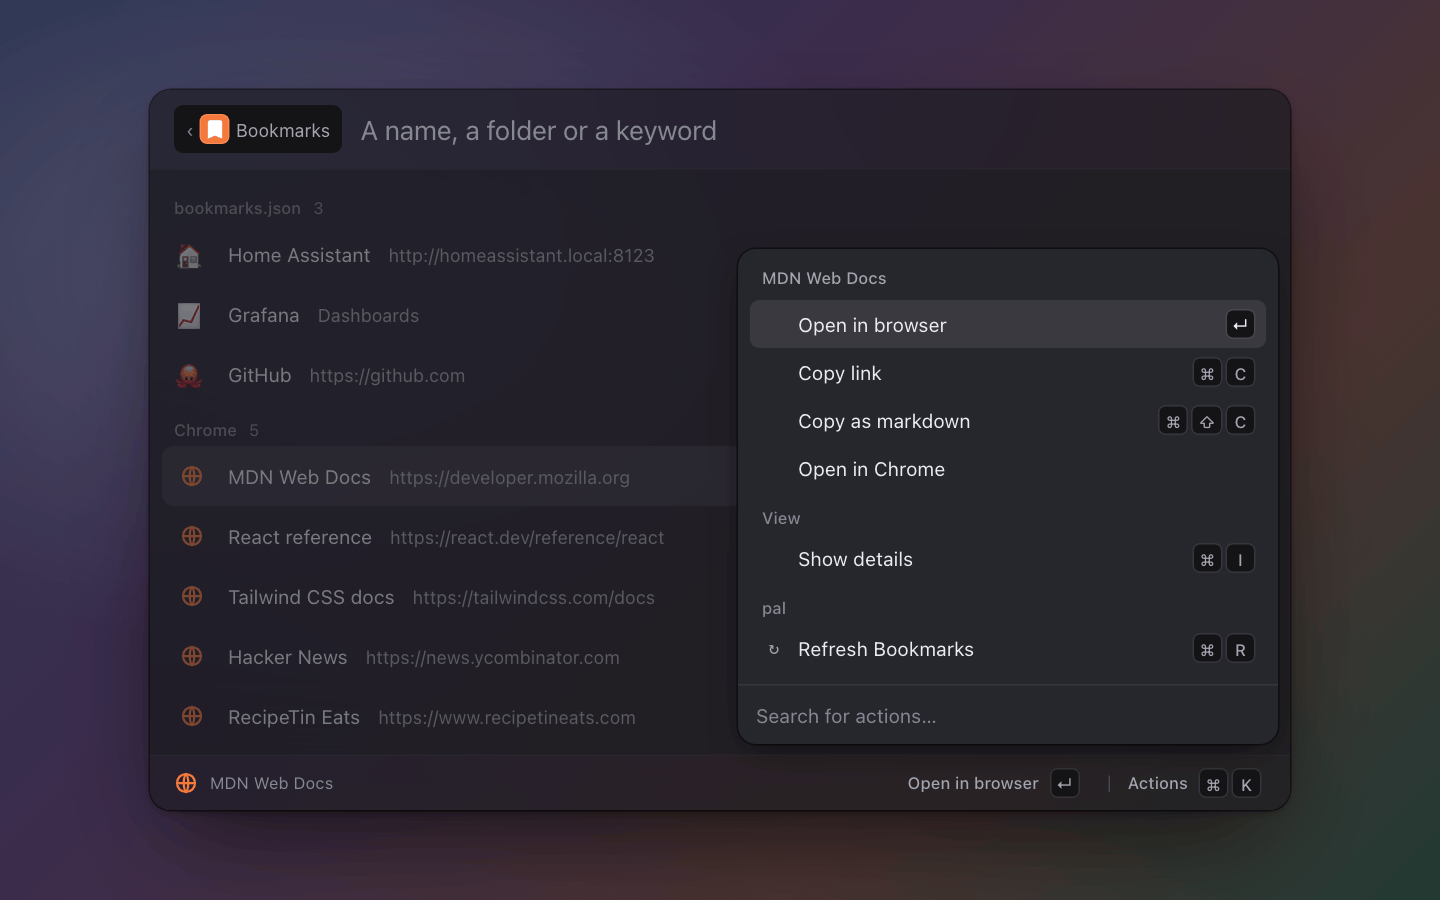
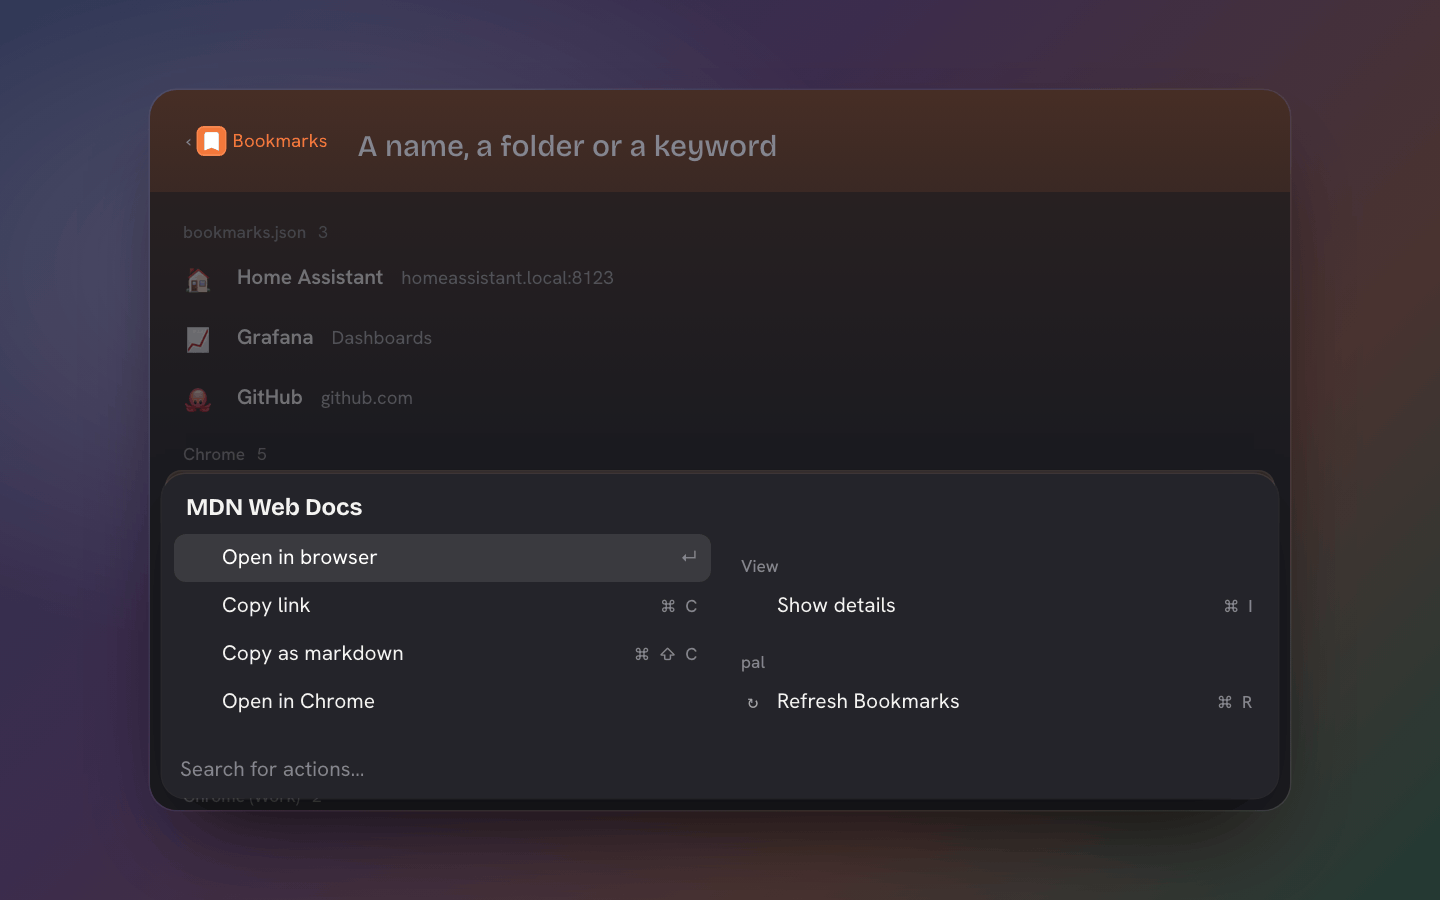
bookmarks: the subtitle is the bare address (no scheme, no www), in the history palette too

diff --git a/host/test/extensions/bookmarks.test.ts b/host/test/extensions/bookmarks.test.ts
@@ -222,7 +222,7 @@ describe("bookmarks", () => {
   test("the file's rows first: url as id, keywords, icon only when set, the palette's three actions (said once, not per row)", async () => {
     const items = await list();
     expect(items[0]).toEqual({
-      id: "http://ha.lan", name: "Home Assistant", subtitle: "http://ha.lan", icon: "🏠", keywords: ["ha", "home"], url: "http://ha.lan", section: "bookmarks.json",
+      id: "http://ha.lan", name: "Home Assistant", subtitle: "ha.lan", icon: "🏠", keywords: ["ha", "home"], url: "http://ha.lan", section: "bookmarks.json",
     });
     expect(host.loaded().find((l) => l.extension === "bookmarks")!.palettes[0].actions).toEqual([
       { id: "open", title: "Open in browser", multi: true }, { id: "copy", title: "Copy link", shortcut: "cmd+c", multi: true }, { id: "copy-markdown", title: "Copy as markdown", shortcut: "cmd+shift+c", multi: true },
@@ -239,7 +239,7 @@ describe("bookmarks", () => {
     // Chrome's GitHub is the file's url: the file won; Safari's too.
     expect(ids.filter((i) => i === "https://github.com")).toHaveLength(1);
     const bun = items.find((i) => i.id === "https://bun.sh")!;
-    expect(bun).toMatchObject({ name: "Bun", subtitle: "https://bun.sh", url: "https://bun.sh", keywords: ["Bookmarks Bar", "Dev"], accessories: [{ text: "Bookmarks Bar / Dev" }], section: "Chrome (Default)" });
+    expect(bun).toMatchObject({ name: "Bun", subtitle: "bun.sh", url: "https://bun.sh", keywords: ["Bookmarks Bar", "Dev"], accessories: [{ text: "Bookmarks Bar / Dev" }], section: "Chrome (Default)" });
     expect(bun.icon).toBeUndefined();
     expect(bun.actions!.map((a) => [a.id, a.title, !!a.multi])).toEqual([["open", "Open in browser", true], ["copy", "Copy link", true], ["copy-markdown", "Copy as markdown", true], ["open-in:Google Chrome", "Open in Chrome", true]]);
     // A bookmark saved without a name is named by its bare address, and the address is not said again under it.
@@ -337,7 +337,7 @@ describe("history", () => {
       ["https://example.com/untitled", "Chrome (Default)"],
     ]);
     expect(items[0]).toEqual({
-      id: "https://bun.sh/docs", name: "Bun docs", subtitle: "https://bun.sh/docs", url: "https://bun.sh/docs", accessories: [{ date: T - 60_000 }], section: "Chrome (Default)",
+      id: "https://bun.sh/docs", name: "Bun docs", subtitle: "bun.sh/docs", url: "https://bun.sh/docs", accessories: [{ date: T - 60_000 }], section: "Chrome (Default)",
       actions: [{ id: "open-in:Google Chrome", title: "Open in Chrome", multi: true }, { id: "copy", title: "Copy link", shortcut: "cmd+c", multi: true }, { id: "open", title: "Open in default browser", shortcut: "cmd+o", multi: true }],
     });
     expect(items[1].actions![0].title).toBe("Open in Firefox");

diff --git a/extensions/bookmarks/index.ts b/extensions/bookmarks/index.ts
@@ -120,7 +120,7 @@ async function list(): Promise<Item[]> {
     const name = titleOf(r.name, r.url);
     known.set(r.url, { name });
     // The file's rows take the palette's three actions (said once); a browser's rows below add "Open in <browser>" and so say their own. A nameless bookmark is named by its address and says nothing twice.
-    items.push({ id: r.url, name, subtitle: r.subtitle ?? (name === bareUrl(r.url) ? undefined : r.url), icon: r.icon?.trim() || undefined, keywords: r.keywords, url: r.url, section });
+    items.push({ id: r.url, name, subtitle: r.subtitle ?? (name === bareUrl(r.url) ? undefined : bareUrl(r.url)), icon: r.icon?.trim() || undefined, keywords: r.keywords, url: r.url, section });
   }
   const { sources, problems } = await browserSources(s.browsers);
   for (const src of sources) {
@@ -131,7 +131,7 @@ async function list(): Promise<Item[]> {
       items.push({
         id: f.url,
         name: f.name,
-        subtitle: f.name === bareUrl(f.url) ? undefined : f.url,
+        subtitle: f.name === bareUrl(f.url) ? undefined : bareUrl(f.url),
         keywords: [...new Set(f.folder.filter(Boolean))],
         url: f.url,
         accessories: f.folder.length ? [{ text: f.folder.join(" / ") }] : [],

diff --git a/extensions/bookmarks/history.ts b/extensions/bookmarks/history.ts
@@ -12,6 +12,7 @@
 // browser as the section; Enter opens it in the browser it came from.
 import { errorMessage, failed, settings, type Action, type Ctx, type Effect, type Item } from "@zcag/pal";
 import { BROWSERS, chromiumProfiles, copied, firefoxProfiles, openIn } from "./browsers.ts";
+import { bareUrl } from "./sources.ts";
 
 /** `[extensions.bookmarks]`, the key this palette reads. */
 type Settings = { browsers: string[] };
@@ -96,7 +97,7 @@ function row(v: Visit & { section: string; app: string }): Item {
   return {
     id: v.url,
     name: v.title,
-    subtitle: v.url,
+    subtitle: bareUrl(v.url),
     url: v.url,
     accessories: [{ date: v.at }],
     section: v.section,

diff --git a/extensions/bookmarks/README.md b/extensions/bookmarks/README.md
@@ -7,7 +7,7 @@ browser or the file shows at once. A url two sources have is listed once,
 the first wins: the file's rows come first, then each browser in the
 `browsers` setting's order.
 
-The file's rows show `subtitle` (the url when absent), an `icon` (a glyph,
+The file's rows show `subtitle` (the address when absent), an `icon` (a glyph,
 emoji or hex colour; a row with a url and no icon gets the site's favicon)
 and match their `keywords`. Browser rows sit in a section per browser and
 profile (`Chrome`, `Chrome (Work)`, `Safari`, `Firefox`), carry the folder

diff --git a/docs/palettes.md b/docs/palettes.md
@@ -286,7 +286,7 @@ insurance = false
 ## Bookmarks (`bookmarks`, `bookmarks-history`)
 
 Hand-picked links from a JSON file: a JSON array of objects with `name` and
-`url`, plus optional `subtitle` (the url when absent), `icon` (a glyph,
+`url`, plus optional `subtitle` (the address when absent), `icon` (a glyph,
 emoji or hex colour; a row with a url and no icon gets the site's favicon)
 and `keywords` (a list of strings); the previous pal's bookmarks file
 reads as is.
